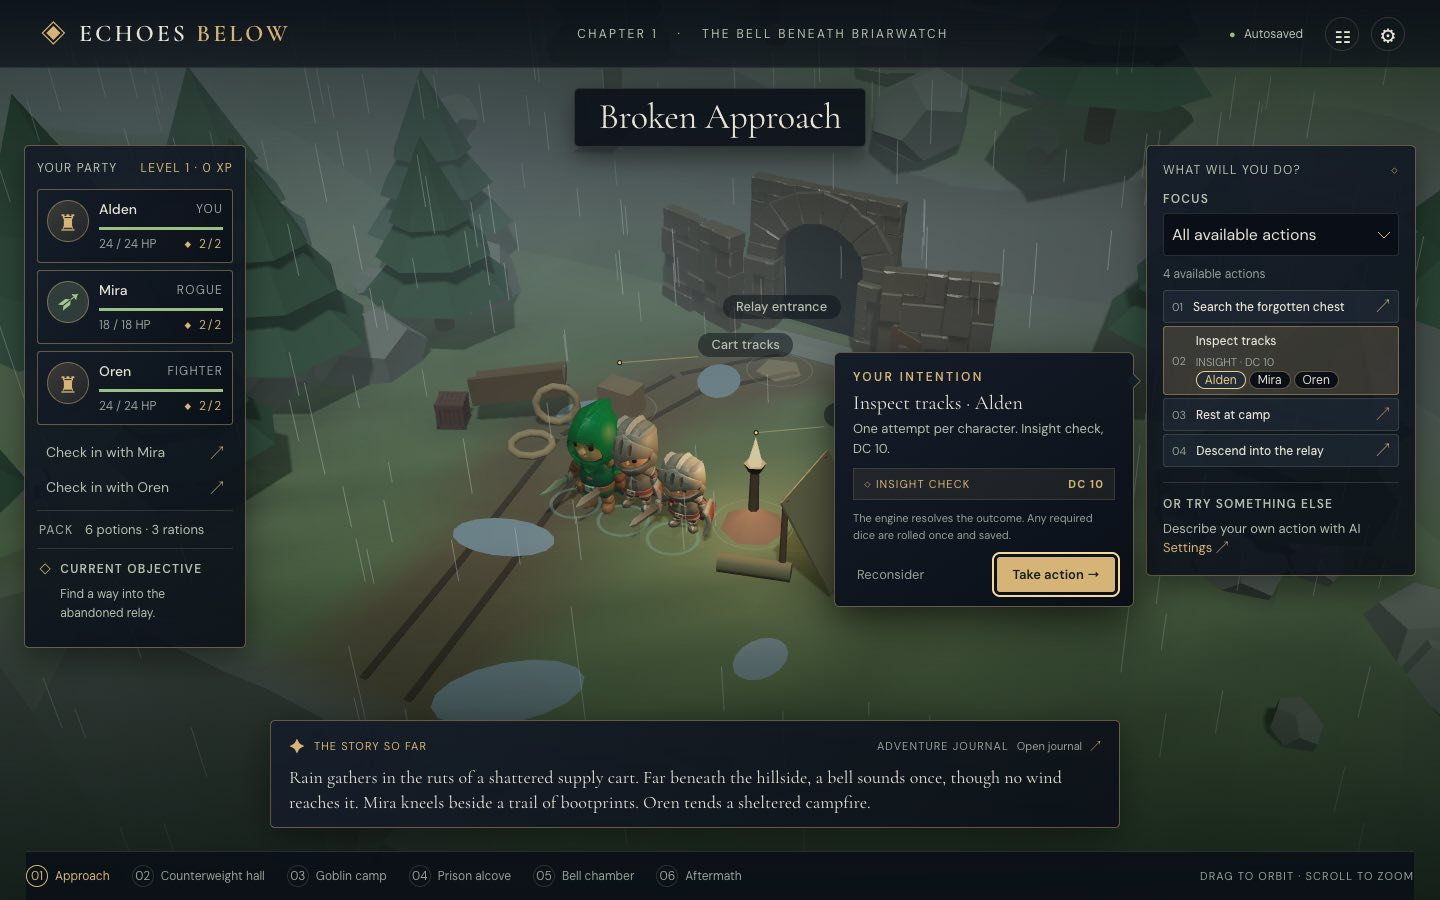
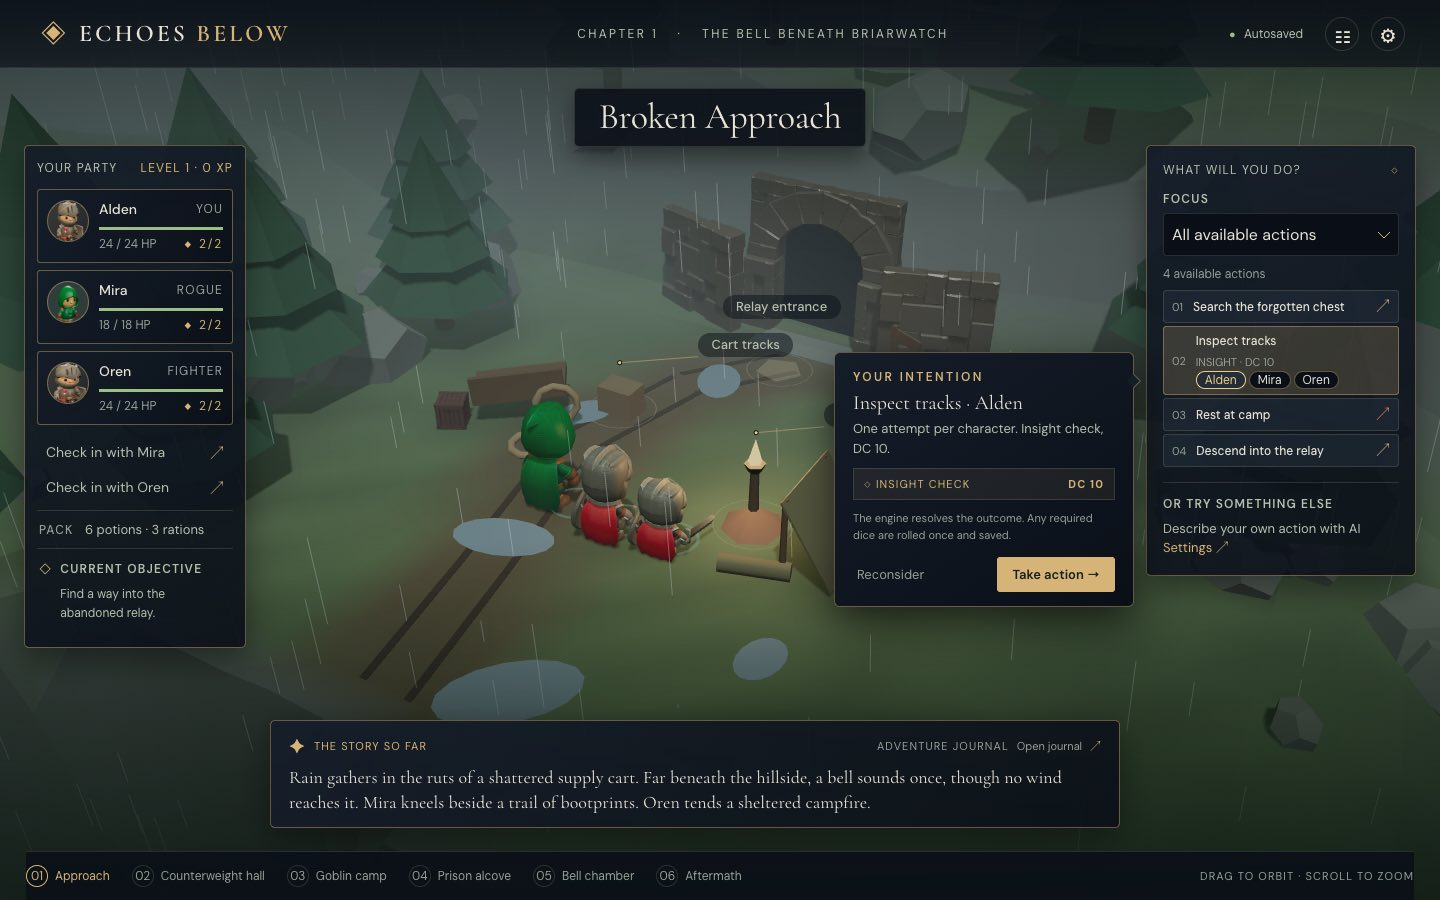
Keep pack stats in the UI face; refresh identity screenshots on current main (#59)
The pack's paragraphs are inventory data with a bold line, and EB
Garamond is only loaded at 400/500, so they stay in DM Sans on the
paper surface. Before/after screenshots are retaken after rebasing on
the portrait renderer (#65).

diff --git a/client/style.css b/client/style.css
@@ -326,7 +326,7 @@ input[type=range]{accent-color:var(--accent);cursor:pointer}
 /* Pack: inventory and camp, over a scrim. */
 .pack-backdrop{position:fixed;inset:0;z-index:100;background:var(--scrim);animation:fade-in var(--enter-duration) var(--ease-out) both}
 .pack-panel{position:fixed;z-index:100;top:9%;left:50%;transform:translateX(-50%);width:min(680px,90vw);max-height:82%;overflow:auto;padding:24px;color:var(--text-primary);animation:panel-in var(--enter-duration) var(--ease-out) both}
-.pack-panel header{display:flex;justify-content:space-between;align-items:center}.pack-panel header button{font-size:var(--fs-2xl);padding:8px}.pack-panel h2{margin:0;font-family:var(--font-display)}.pack-panel p{font-family:var(--font-body);font-size:var(--fs-lg);line-height:1.5}
+.pack-panel header{display:flex;justify-content:space-between;align-items:center}.pack-panel header button{font-size:var(--fs-2xl);padding:8px}.pack-panel h2{margin:0;font-family:var(--font-display)}.pack-panel p{line-height:1.5}
 .pack-panel select{display:block;padding:10px 28px 10px 10px;width:100%;background-color:var(--surface-0);border:1px solid var(--border-default);color:inherit}
 .pack-note,.pack-panel small{font-size:var(--fs-sm);color:var(--text-secondary)}.pack-items>div{display:flex;justify-content:space-between;padding:8px 0;border-bottom:1px solid var(--border-subtle)}
 .pack-actions{display:flex;flex-wrap:wrap;gap:8px;margin-top:14px}.pack-actions button{padding:10px;border:1px solid var(--border-strong)}
